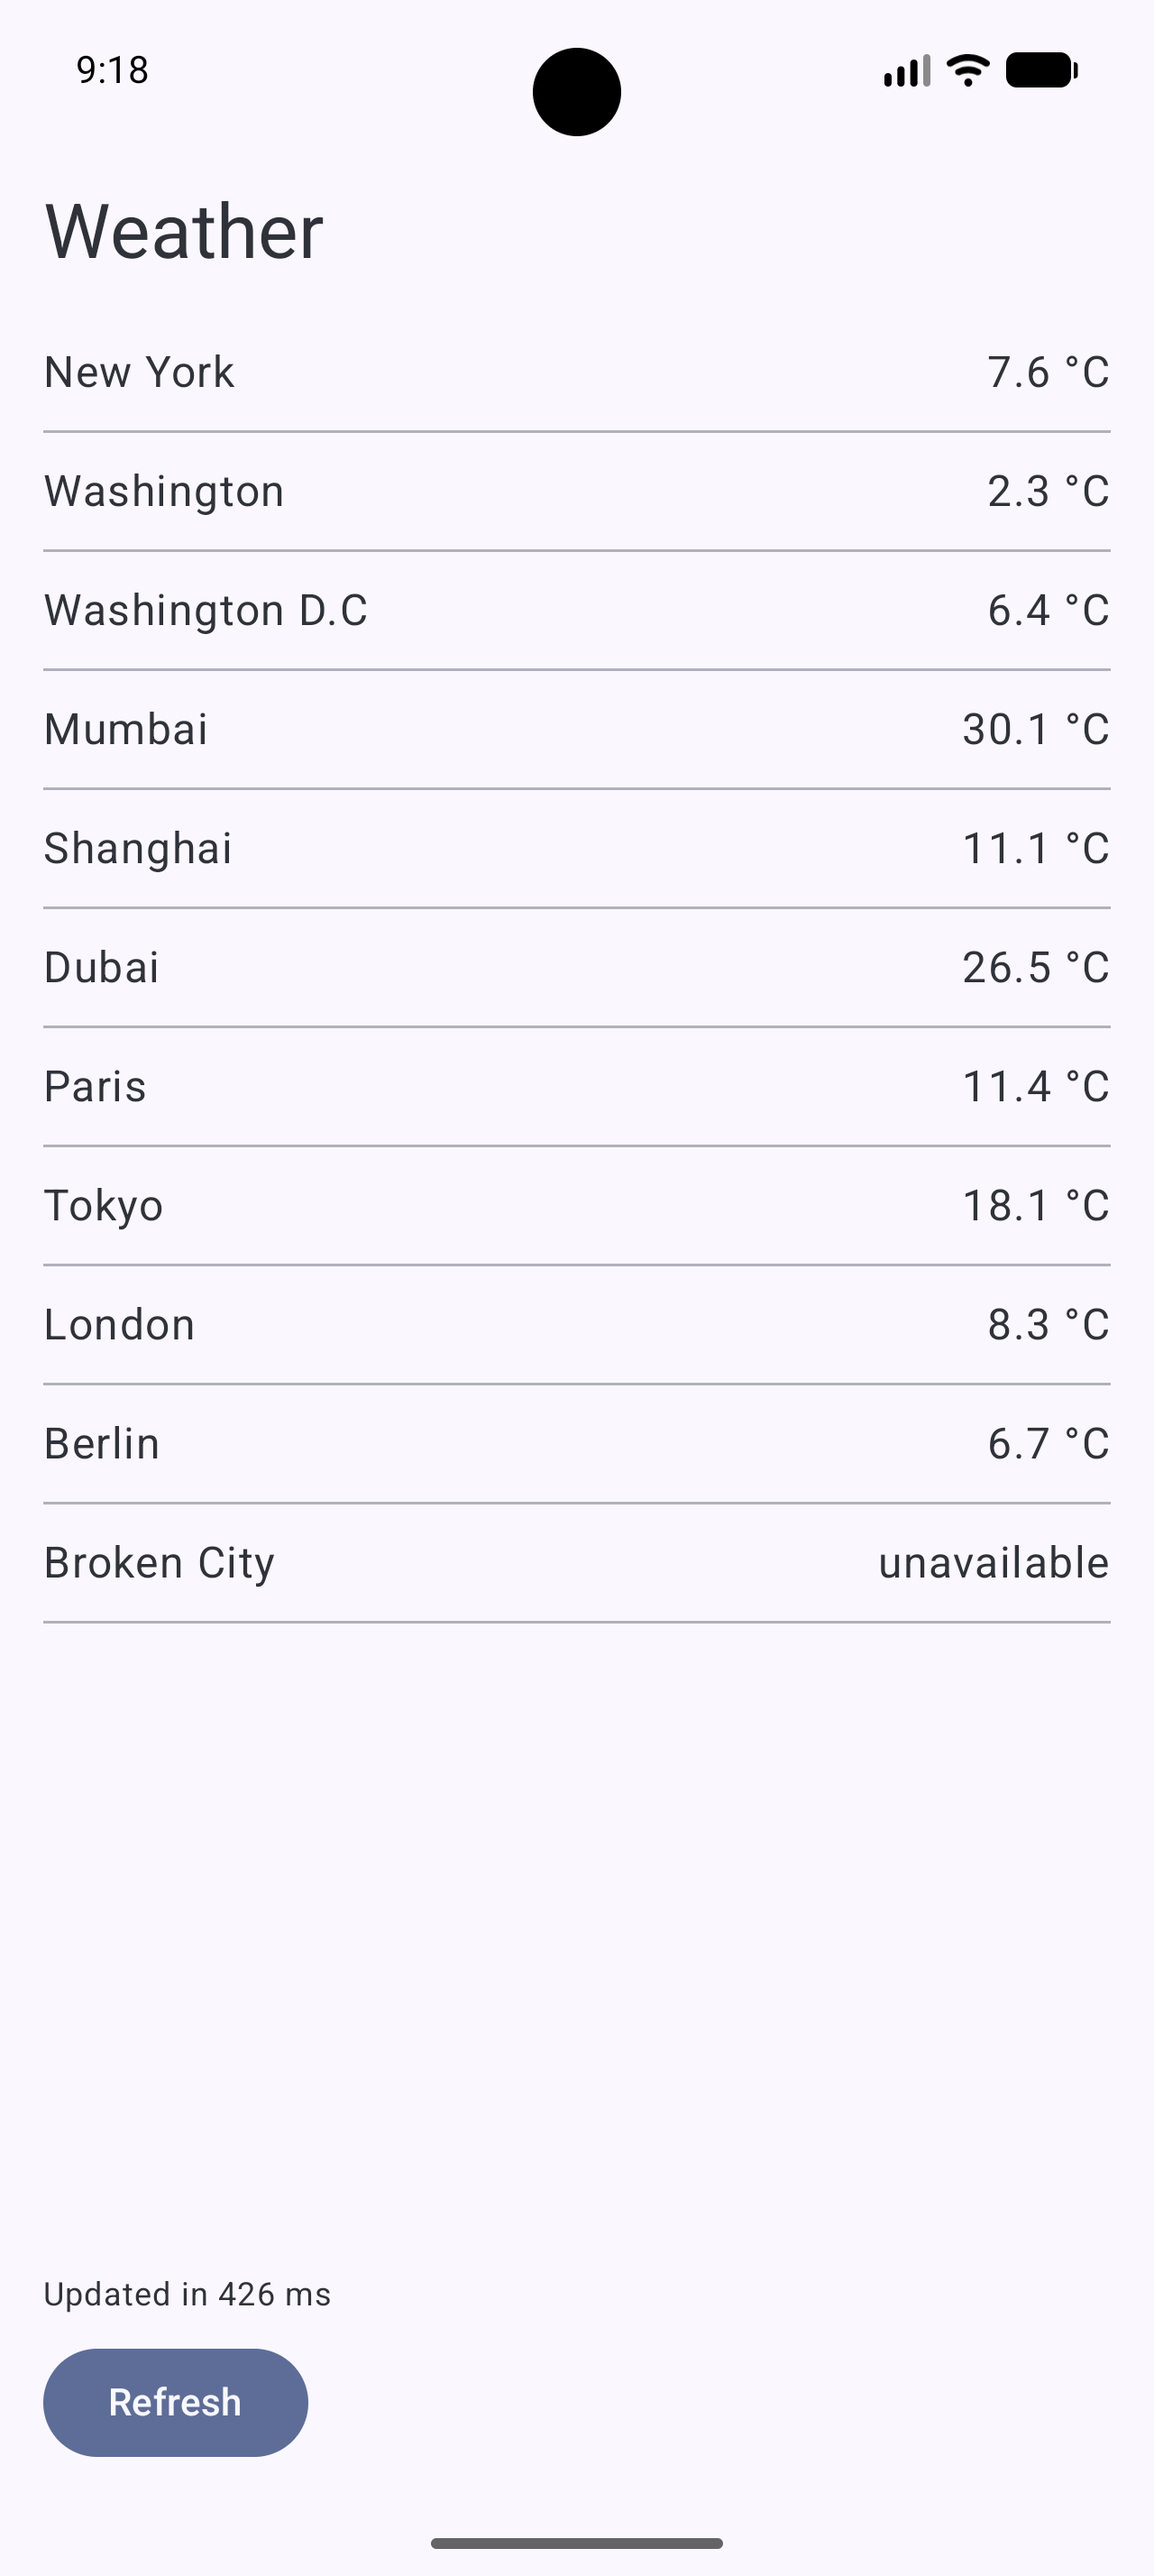
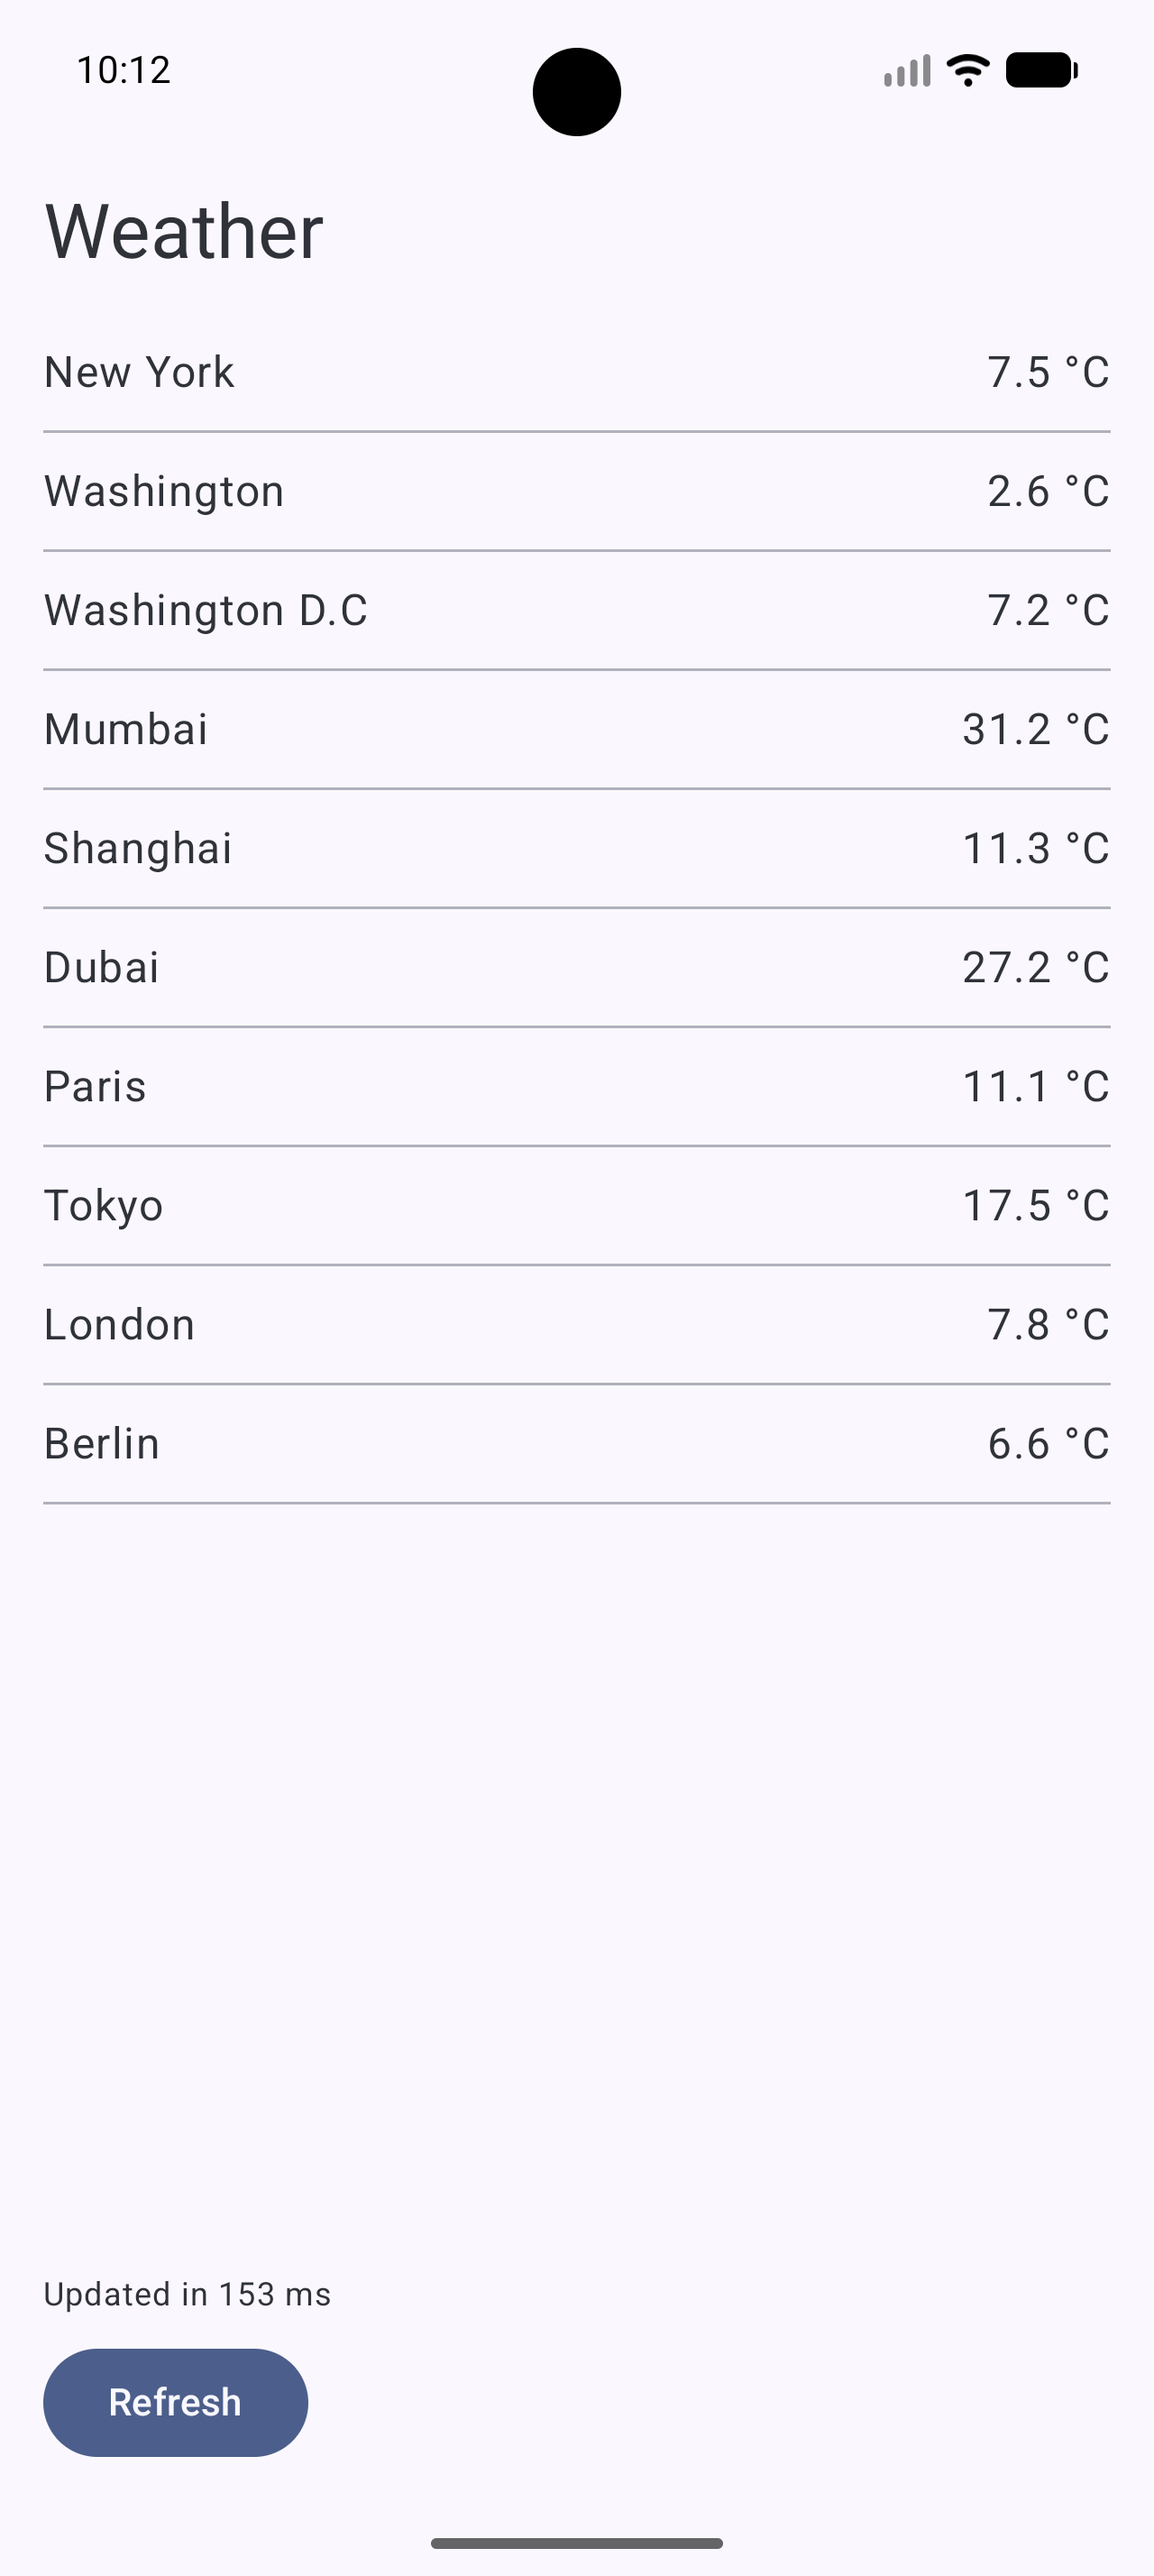
Stage 7: remove test cities, final README and screenshot

diff --git a/app/src/main/java/com/csaim/coroutinelabs/Cities.kt b/app/src/main/java/com/csaim/coroutinelabs/Cities.kt
@@ -18,8 +18,8 @@ val cities = listOf(
     City("Tokyo", 35.6895, 139.6917),
     City("London", 51.5074, -0.1278),
     City("Berlin", 52.5200, 13.4050),
-    City("Broken City", 999.0, 999.0),
-    City("Slow City", 48.85, 2.35)
+//    City("Broken City", 999.0, 999.0),
+//    City("Slow City", 48.85, 2.35)
 
 
 

diff --git a/README.md b/README.md
@@ -85,6 +85,14 @@ The Refresh button can now be tapped while a load is still running.
 - **Gotcha:** cancellation is delivered as a `CancellationException`. A `catch (e: Exception)` would swallow it and break the cancellation, so the `catch` block rethrows it before handling real errors.
 - Because the ViewModel uses `viewModelScope`, everything is also cancelled automatically when the ViewModel is discarded.
 
+## What I learned
+
+- A `suspend` function can pause without blocking a thread, and a dispatcher decides which thread the work runs on.
+- Doing independent work at the same time (`async` + `awaitAll`) matters more than just moving it off the main thread.
+- In a normal scope, one failing child cancels its siblings and its parent. `supervisorScope` changes that.
+- Timeouts and cancellation only work on code that cooperates with cancellation.
+- Always rethrow `CancellationException`.
+
 ## Project structure
 
 - `Cities.kt`: the list of cities with their coordinates
@@ -93,3 +101,7 @@ The Refresh button can now be tapped while a load is still running.
 - `WeatherScreen.kt`: the Compose screen
 - `MainActivity.kt`: sets up the screen
 - `Timing.kt`: the `logTime` helper used for the measurements in the stages above
+
+## Run it
+
+Open the project in Android Studio and run it on an emulator or device with internet access. No API key is needed.
